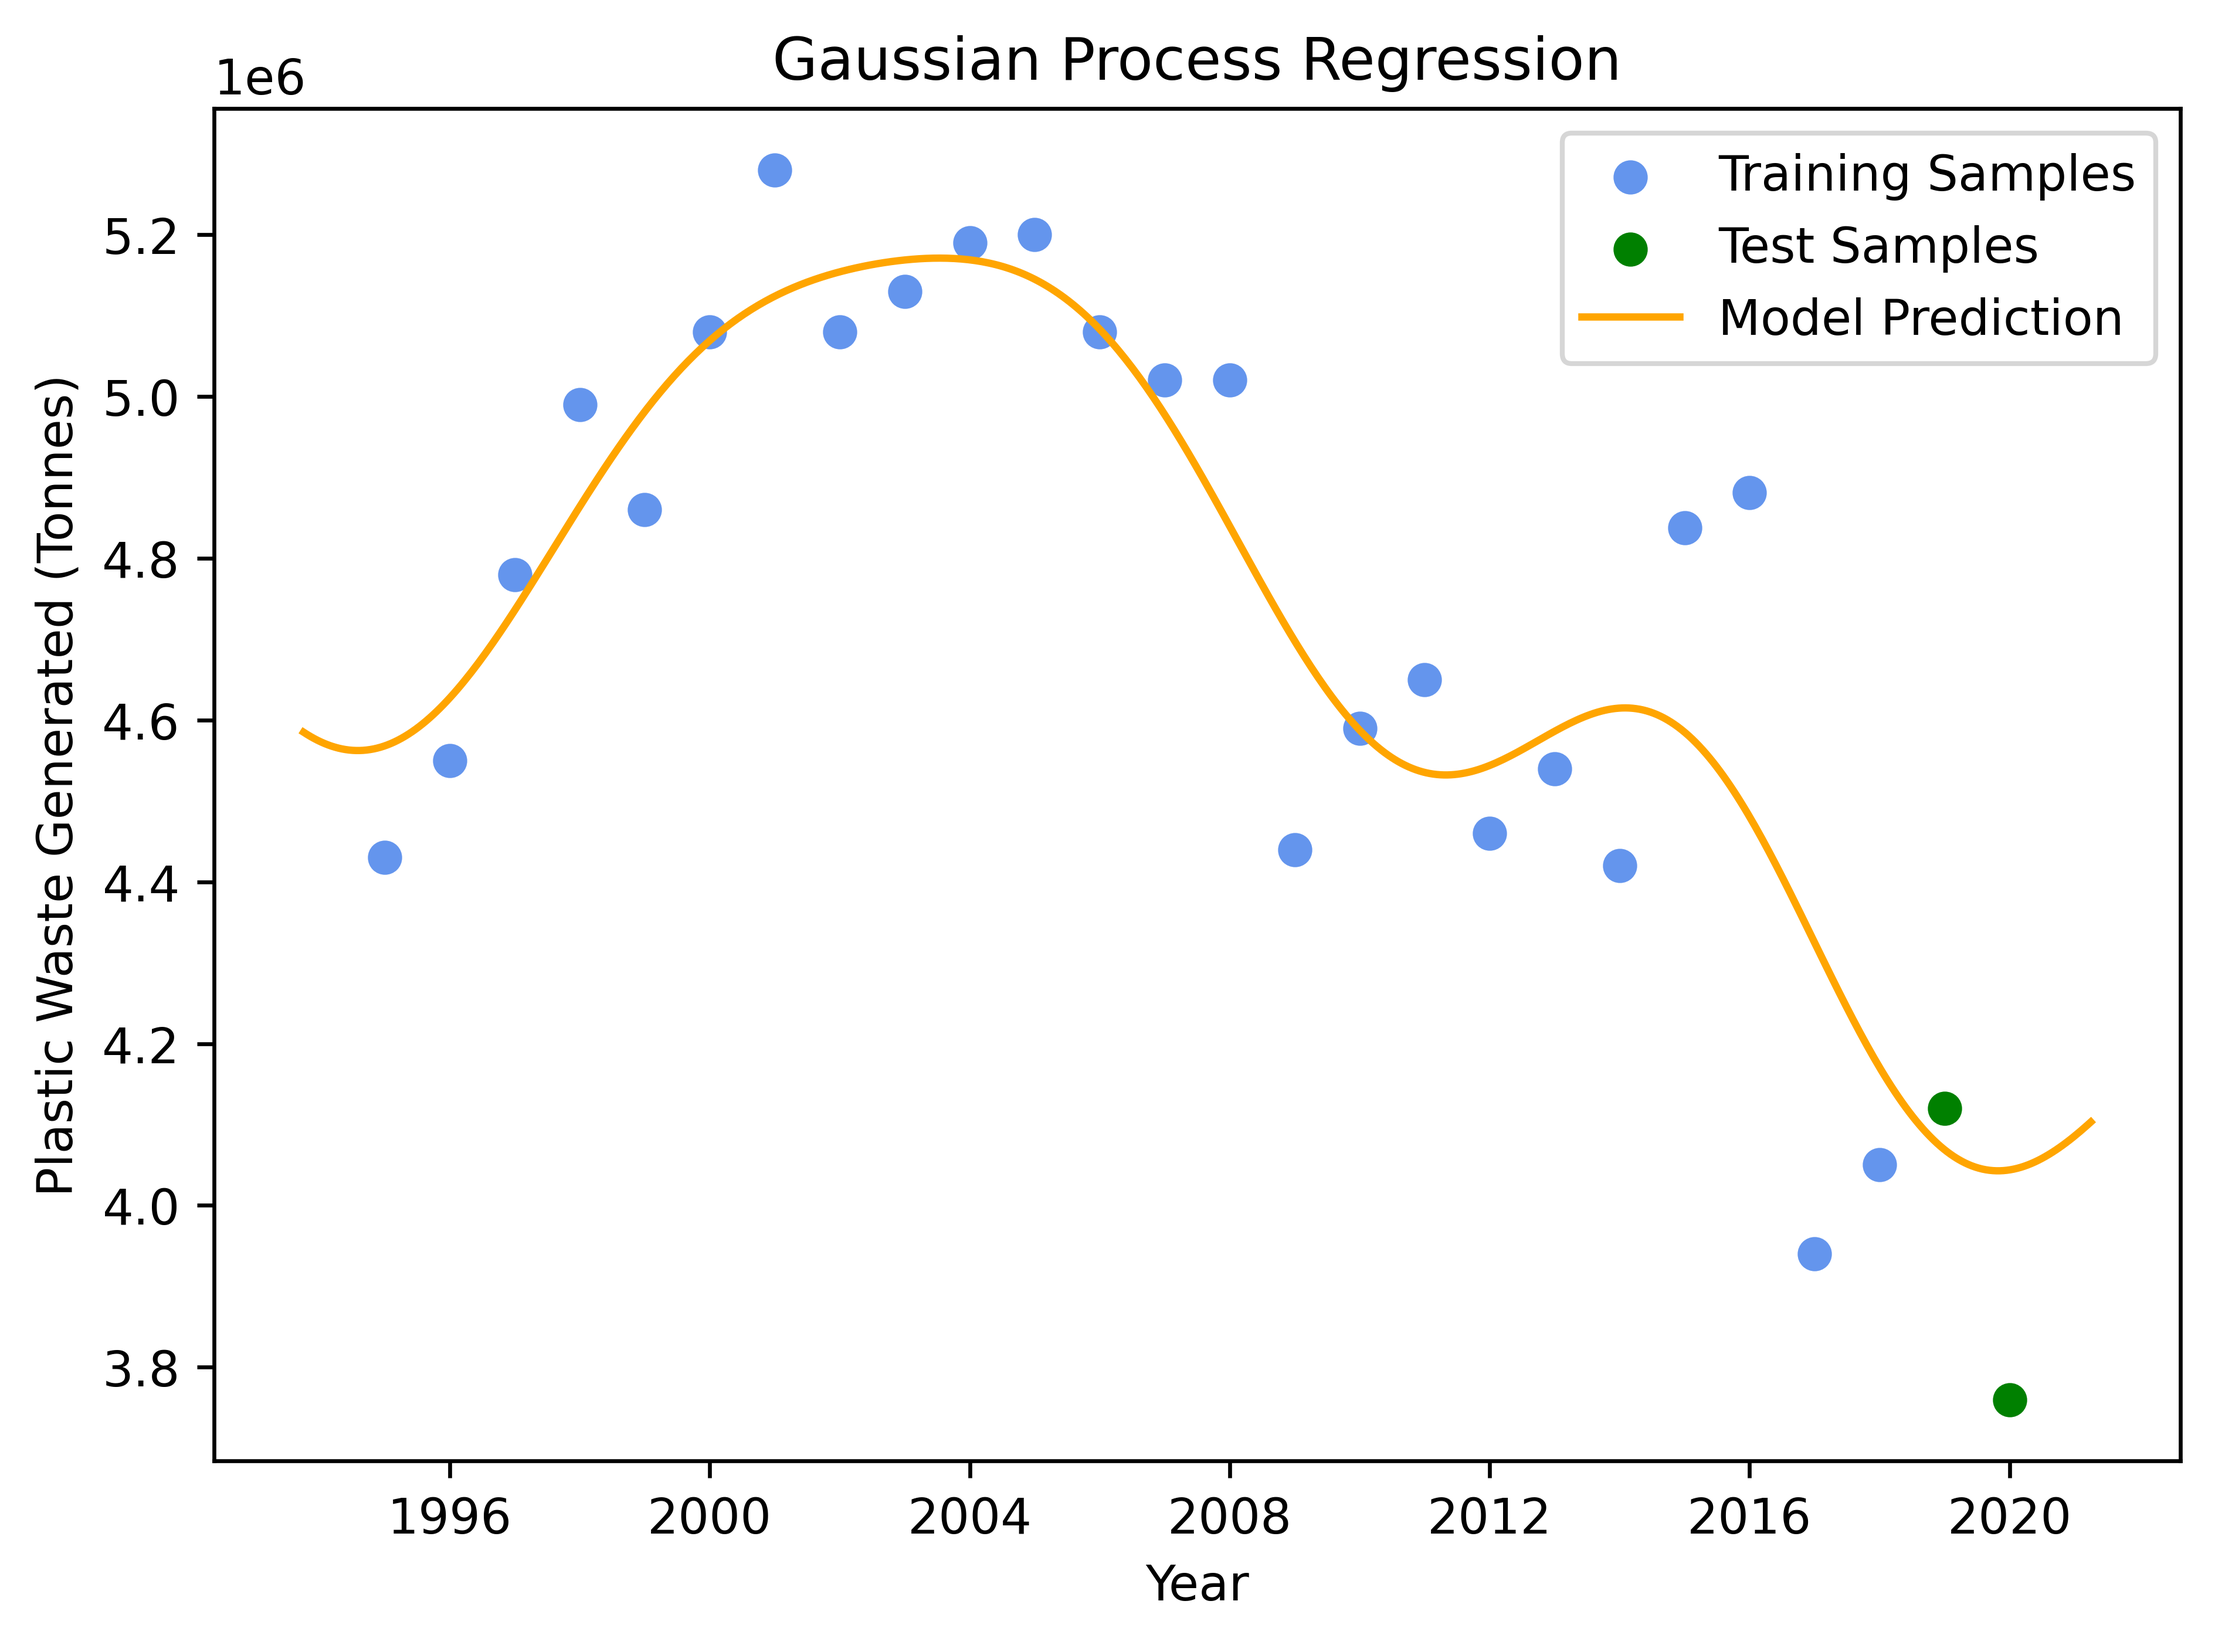
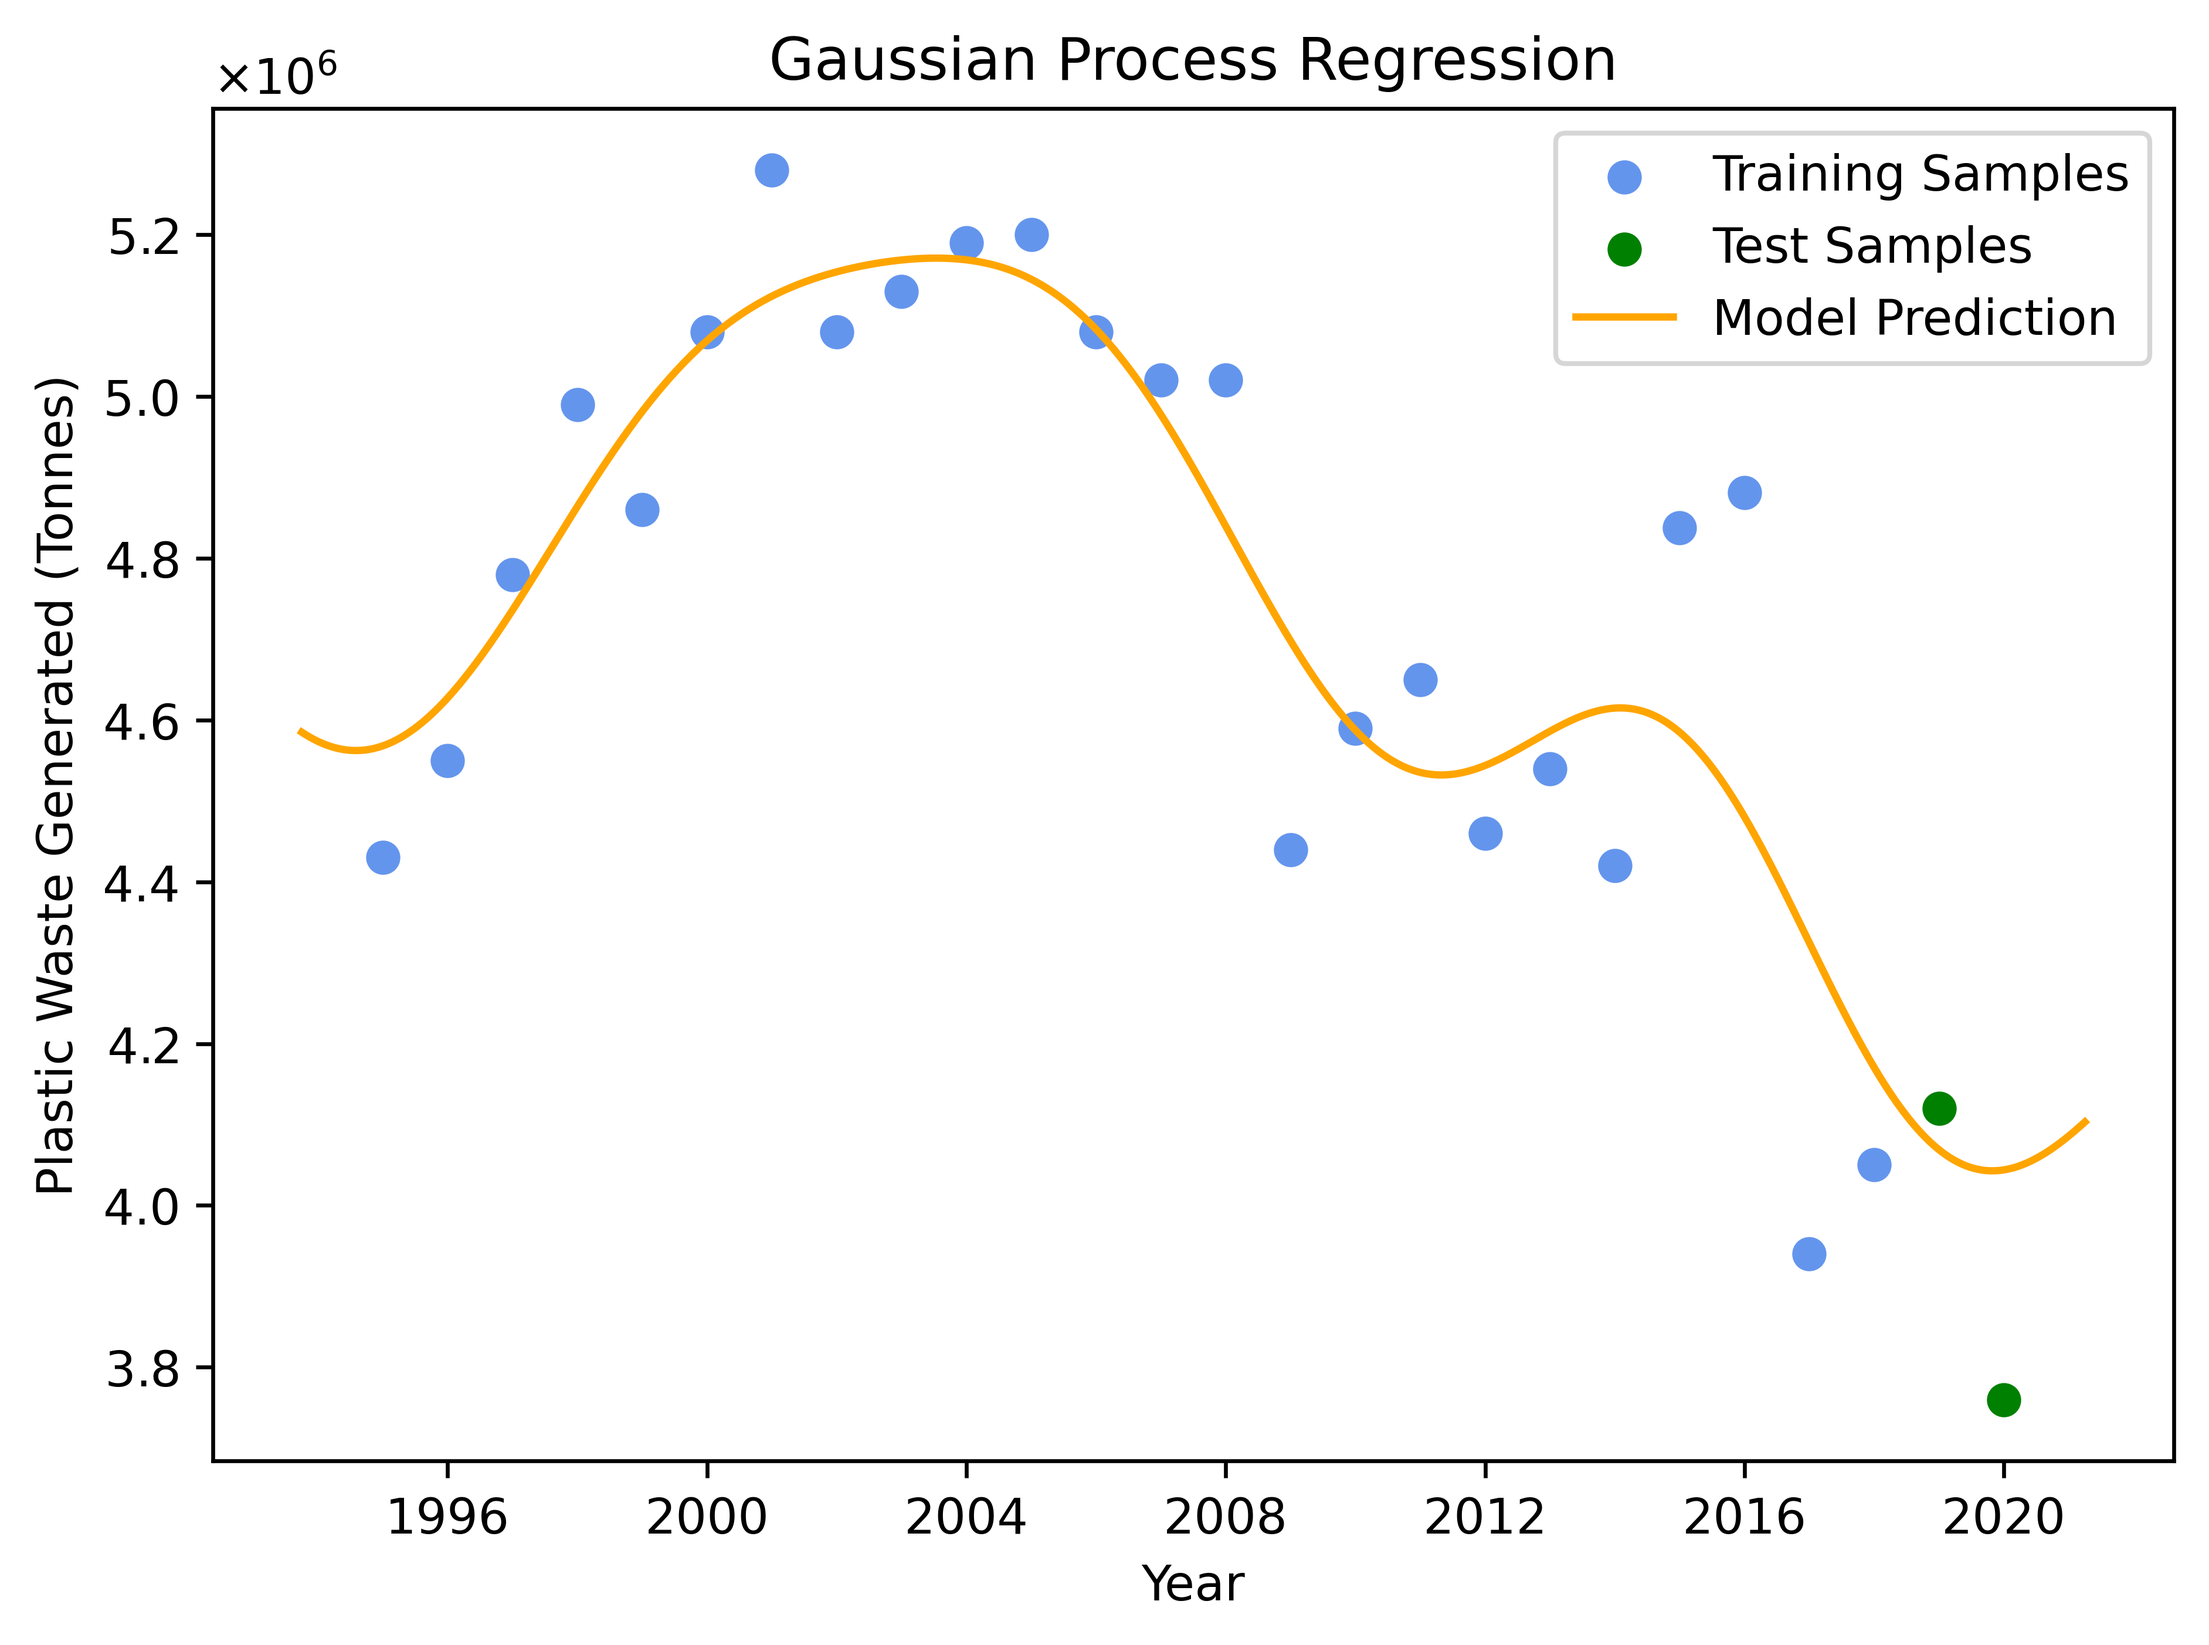
feat(paper): update the plots (use scientific notations)

diff --git a/python/step/plot/plotter.py b/python/step/plot/plotter.py
@@ -8,7 +8,7 @@ import numpy as np
 from common.dataset import DatasetSchema, combine_names_and_units
 from matplotlib.axes import Axes
 from matplotlib.figure import Figure
-from matplotlib.ticker import MaxNLocator, StrMethodFormatter
+from matplotlib.ticker import MaxNLocator, ScalarFormatter, StrMethodFormatter
 
 
 class Plotter(ABC):
@@ -220,6 +220,11 @@ class RegressionPlotter(Plotter, ABC):
         self.ax.set_ylabel(target_labels[0])
         self.ax.xaxis.set_major_locator(MaxNLocator(integer=True))
         self.ax.xaxis.set_major_formatter(StrMethodFormatter('{x:.0f}'))
+        y_formatter = ScalarFormatter(useMathText=True)
+        y_formatter.set_scientific(True)
+        y_formatter.set_powerlimits((0, 0))
+        y_formatter.set_useOffset(False)
+        self.ax.yaxis.set_major_formatter(y_formatter)
         self.ax.legend()
         self.draw_metric_annotation()
 

diff --git a/python/step/plot/correlation_matrix.py b/python/step/plot/correlation_matrix.py
@@ -28,6 +28,8 @@ class CorrelationMatrixPlotter(Plotter):
 
         # Mask the upper triangle (because the matrix is symmetric)
         mask = np.triu(np.ones_like(df, dtype=bool), k=1)
+        annotation_labels = np.char.mod('%.2f', corr)
+        annotation_labels = np.char.replace(annotation_labels, '-', '−')
 
         # Figure size that scales with number of features
         n = len(feature_names)
@@ -57,8 +59,8 @@ class CorrelationMatrixPlotter(Plotter):
             square=False,
             cbar=True,
             cbar_kws={'label': '', 'shrink': 0.9},
-            annot=True,
-            fmt='.2f',
+            annot=annotation_labels,
+            fmt='',
             annot_kws={'fontsize': 7},
             linewidths=0.5,
             linecolor='white',
